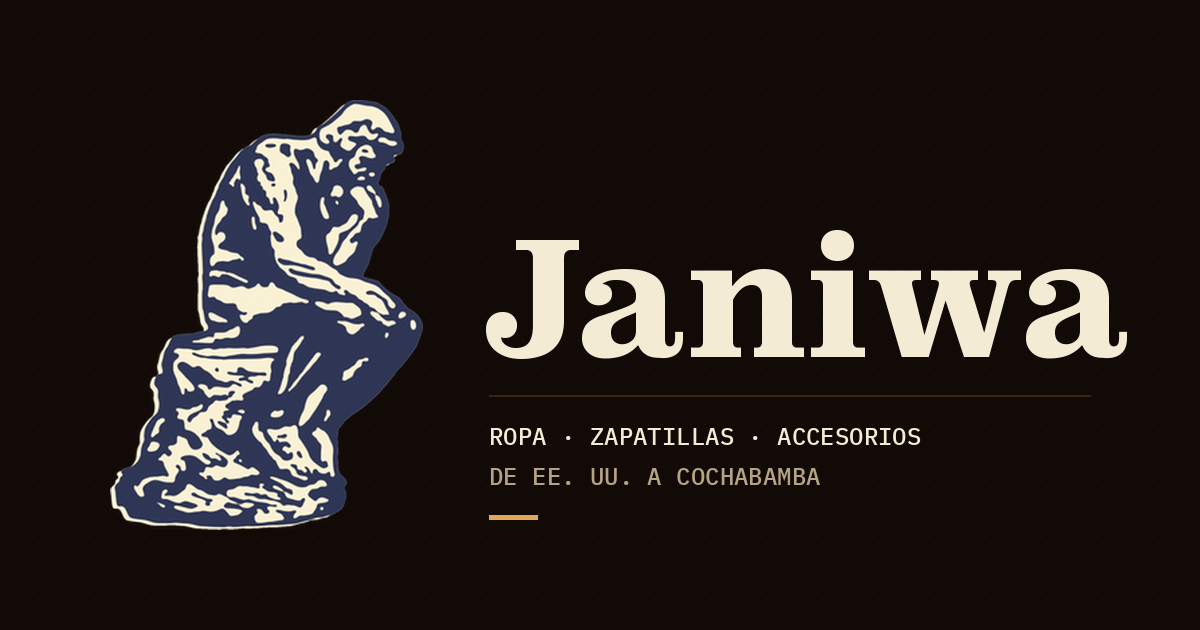
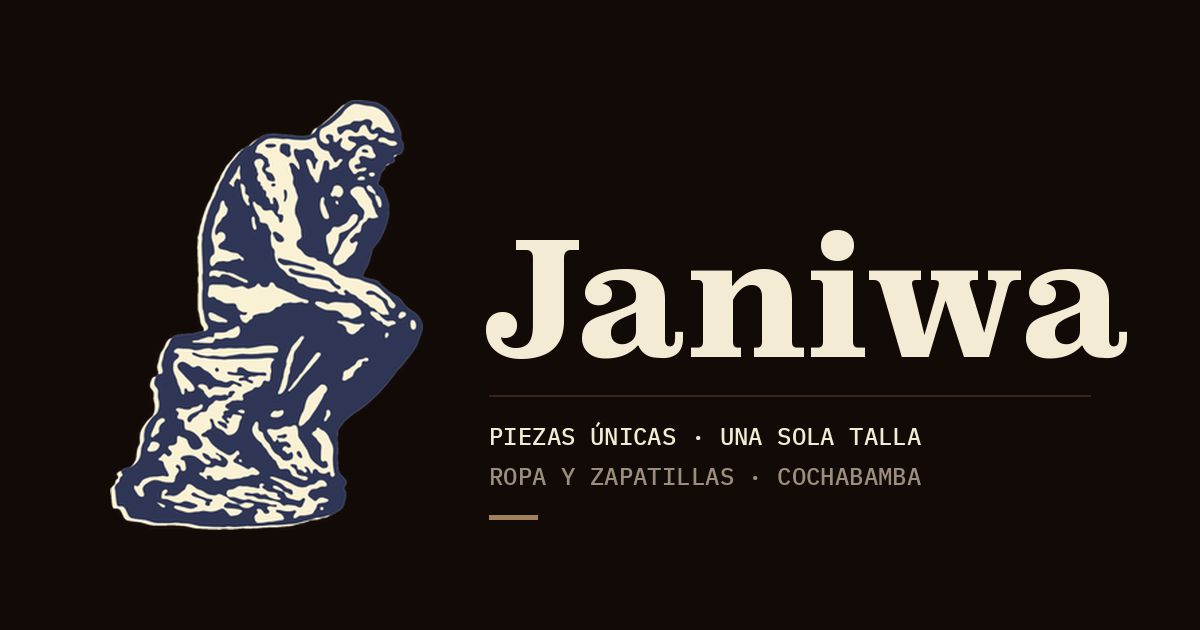
Piezas únicas, sin Encargos y cafés más oscuros
- Cada prenda es una sola en una sola talla: tarjeta con TALLA, ficha con
  PIEZA ÚNICA y 'Cuando se vende, no vuelve'; subir prenda elige una talla
- Se quita todo lo de Encargos USA ⇄ Bolivia (página, menú, pie, anuncios)
- Cafés claros más oscuros y menos naranjas (acento, texto suave, puntos)
- Textos para compartir y og.png con el nuevo enfoque

Claude-Session: https://claude.ai/code/session_01M5i1UX8nCTuhmQ9yh6jCW9

Changed region(s): [[0.4008, 0.6635, 0.7708, 0.7841], [0.4008, 0.8143, 0.4625, 0.8444]]

diff --git a/src/components/SubirPrenda.tsx b/src/components/SubirPrenda.tsx
@@ -4,7 +4,7 @@ import Link from "next/link";
 import { useState, useTransition } from "react";
 import { crearPrenda } from "@/app/actions";
 import { adivinarGenero, adivinarTipo, TIPOS_ROPA, type Genero } from "@/lib/catalogo";
-import { CATEGORIES, type Disponibilidad } from "@/lib/types";
+import { CATEGORIES } from "@/lib/types";
 import Sidebar from "./Sidebar";
 import SubidorFotos from "./SubidorFotos";
 
@@ -20,13 +20,11 @@ export default function SubirPrenda() {
   const [categoria, setCategoria] = useState("ROPA");
   const [genero, setGenero] = useState<Genero | null>(null); // null = aún sin tocar → sugerido
   const [tipo, setTipo] = useState<string | null>(null);
-  const [tallas, setTallas] = useState<string[]>([]);
+  const [talla, setTalla] = useState(""); // pieza única: una sola talla
   const [otraTalla, setOtraTalla] = useState("");
   const [precio, setPrecio] = useState("");
   const [minimo, setMinimo] = useState("");
   const [costo, setCosto] = useState("");
-  const [disp, setDisp] = useState<Disponibilidad>("stock");
-  const [llegada, setLlegada] = useState("");
   const [descripcion, setDescripcion] = useState("");
   const [publicar, setPublicar] = useState(true);
   const [resultado, setResultado] = useState<{ ok: true; id: number; publicado: boolean } | { ok: false; error: string } | null>(null);
@@ -36,13 +34,11 @@ export default function SubirPrenda() {
   const generoFinal = genero ?? adivinarGenero(`${nombre} ${color}`) ?? "unisex";
   const tipoFinal = tipo ?? (esRopa ? adivinarTipo(nombre) ?? "" : "");
   const sugeridas = esRopa ? TALLAS_ROPA : categoria === "ZAPATILLAS" ? TALLAS_ZAP : [];
-  const opcionesTalla = [...sugeridas, ...tallas.filter((t) => !sugeridas.includes(t))];
+  const opcionesTalla = talla && !sugeridas.includes(talla) ? [...sugeridas, talla] : sugeridas;
 
-  const alternarTalla = (t: string) =>
-    setTallas((ts) => (ts.includes(t) ? ts.filter((x) => x !== t) : [...ts, t]));
   const agregarTalla = () => {
-    const nuevas = otraTalla.split(/[,;]+/).map((t) => t.trim().toUpperCase()).filter(Boolean);
-    setTallas((ts) => Array.from(new Set([...ts, ...nuevas])));
+    const t = otraTalla.trim().toUpperCase();
+    if (t) setTalla(t);
     setOtraTalla("");
   };
 
@@ -52,11 +48,10 @@ export default function SubirPrenda() {
     setColor("");
     setGenero(null);
     setTipo(null);
-    setTallas([]);
+    setTalla("");
     setPrecio("");
     setMinimo("");
     setCosto("");
-    setLlegada("");
     setDescripcion("");
     setResultado(null);
     window.scrollTo({ top: 0 });
@@ -74,9 +69,9 @@ export default function SubirPrenda() {
         publicado: publicar,
         precio_venta_bs: num(precio),
         precio_minimo_bs: num(minimo),
-        tallas,
-        disponibilidad: disp,
-        llegada_estimada: disp === "encargo" ? llegada || null : null,
+        tallas: talla ? [talla] : [],
+        disponibilidad: "stock",
+        llegada_estimada: null,
         descripcion: descripcion || null,
         genero: generoFinal,
         subcategoria: esRopa ? tipoFinal || null : null,
@@ -154,7 +149,7 @@ export default function SubirPrenda() {
                   value={categoria}
                   onChange={(e) => {
                     setCategoria(e.target.value);
-                    setTallas([]);
+                    setTalla("");
                   }}
                 >
                   {CATEGORIES.map((c) => (
@@ -192,11 +187,11 @@ export default function SubirPrenda() {
             </div>
 
             <fieldset className="tallas">
-              <legend className="label">TALLAS QUE TIENES {tallas.length ? `· ${tallas.join(", ")}` : ""}</legend>
+              <legend className="label">TALLA · PIEZA ÚNICA {talla ? `· ${talla}` : ""}</legend>
               {opcionesTalla.length > 0 && (
                 <div className="tallas-lista">
                   {opcionesTalla.map((t) => (
-                    <button key={t} type="button" className="talla" aria-pressed={tallas.includes(t)} onClick={() => alternarTalla(t)}>
+                    <button key={t} type="button" className="talla" aria-pressed={talla === t} onClick={() => setTalla(talla === t ? "" : t)}>
                       {t}
                     </button>
                   ))}
@@ -207,7 +202,7 @@ export default function SubirPrenda() {
                   className="tag-input"
                   type="text"
                   value={otraTalla}
-                  placeholder={esRopa ? "Otra talla (ej. 32x30)" : "Talla (ej. 8.5, ÚNICA)"}
+                  placeholder={esRopa ? "Otra talla (ej. 32x30)" : "Talla (ej. 8.5, ESTÁNDAR)"}
                   aria-label="Agregar otra talla"
                   onChange={(e) => setOtraTalla(e.target.value)}
                   onKeyDown={(e) => {
@@ -219,7 +214,7 @@ export default function SubirPrenda() {
                   style={{ flex: 1, minWidth: 0 }}
                 />
                 <button type="button" className="btn btn-outline" onClick={agregarTalla} disabled={!otraTalla.trim()}>
-                  + AGREGAR
+                  USAR
                 </button>
               </div>
             </fieldset>
@@ -247,20 +242,8 @@ export default function SubirPrenda() {
                 <span>LO QUE TE COSTÓ (USD) · SOLO TÚ</span>
                 <input type="number" inputMode="decimal" min="0" step="0.01" value={costo} placeholder="Opcional" onChange={(e) => setCosto(e.target.value)} />
               </label>
-              <label className="field">
-                <span>DISPONIBILIDAD</span>
-                <select value={disp} onChange={(e) => setDisp(e.target.value as Disponibilidad)}>
-                  <option value="stock">EN STOCK (LO TENGO)</option>
-                  <option value="encargo">POR ENCARGO</option>
-                </select>
-              </label>
+              <div />
             </div>
-            {disp === "encargo" && (
-              <label className="field">
-                <span>LLEGADA ESTIMADA</span>
-                <input type="date" value={llegada} onChange={(e) => setLlegada(e.target.value)} />
-              </label>
-            )}
           </section>
 
           <div className="subir-final">

diff --git a/src/app/globals.css b/src/app/globals.css
@@ -3,10 +3,10 @@
   --panel: #1a0f09;
   --line: #2e1c12;
   --line-strong: #3a2418;
-  --dots: #553825;
+  --dots: #3d3129;
   --cream: #f3ebd3;
-  --muted: #b5a386;
-  --accent: #e3a65b;
+  --muted: #9c8e7c;
+  --accent: #a3805c;
   --serif: var(--font-serif), Georgia, serif;
   --mono: var(--font-mono), ui-monospace, monospace;
 }
@@ -601,9 +601,6 @@ a.nav-item { color: var(--muted); text-decoration: none; }
   display: flex; flex-direction: column; gap: 8px; margin: 22px 18px 0; padding: 14px 16px;
   border: 1px dashed var(--dots); color: var(--cream); text-decoration: none; line-height: 1.5;
 }
-.menu-extra:hover { border-color: var(--accent); }
-.menu-extra-top { display: flex; justify-content: space-between; align-items: center; gap: 8px; }
-.tag-pronto { padding: 2px 6px; font-size: 9px; letter-spacing: 0.14em; background: var(--accent); color: var(--bg); font-weight: 600; }
 .menu-wa {
   display: flex; align-items: center; justify-content: center; gap: 10px; margin: 16px 18px 28px; min-height: 50px;
   border: 1px solid var(--cream); color: var(--cream); text-decoration: none; font-size: 11px; letter-spacing: 0.1em;
@@ -638,20 +635,16 @@ a.nav-item { color: var(--muted); text-decoration: none; }
 .foot-links a { color: var(--cream); min-height: 32px; display: inline-flex; align-items: center; }
 .foot-legal { margin-top: 14px; font-size: 10px; letter-spacing: 0.14em; color: var(--muted); }
 
-/* Encargos y página de producto */
-.encargos { display: grid; grid-template-columns: repeat(2, minmax(0, 1fr)); gap: 14px; margin-top: 10px; }
-.encargo-card { border: 1px solid var(--line-strong); padding: 22px 20px; display: flex; flex-direction: column; gap: 10px; line-height: 1.6; font-size: 13px; }
-.encargo-card h2 { font-size: 24px; line-height: 1.1; }
+/* Página de producto */
 a.btn { color: var(--cream); text-decoration: none; display: inline-flex; align-items: center; justify-content: center; }
 a.btn-primary { color: var(--bg); }
-.encargos + .actions .btn { text-decoration: none; display: inline-flex; align-items: center; }
 .migas { padding: 18px 0 0; font-size: 11px; letter-spacing: 0.1em; }
 .migas a { color: var(--cream); min-height: 32px; display: inline-flex; align-items: center; }
 
 @media (max-width: 640px) {
   .shop { padding: 0 16px 28px; }
   .shop-grid { columns: 2; column-gap: 10px; }
-  .foot-how ol, .encargos { grid-template-columns: 1fr; }
+  .foot-how ol { grid-template-columns: 1fr; }
 }
 
 /* ───────── Radio en vivo ───────── */
@@ -766,3 +759,5 @@ a.btn-primary { color: var(--bg); }
   .subir-final .btn-primary { width: 100%; }
   .anuncio-fila img { width: 72px; }
 }
+
+.unica { margin-top: -8px; line-height: 1.5; }

diff --git a/src/components/Marco.tsx b/src/components/Marco.tsx
@@ -77,13 +77,12 @@ export default function Marco({
         <section className="foot-how" aria-labelledby="como-comprar">
           <h2 id="como-comprar">Cómo comprar</h2>
           <ol>
-            <li><span className="how-n">01</span><span><b>Elige</b> el producto y tu talla.</span></li>
+            <li><span className="how-n">01</span><span><b>Elige</b> tu prenda: cada una es única, en una sola talla.</span></li>
             <li><span className="how-n">02</span><span><b>Escríbenos</b>: el botón abre WhatsApp con tu pedido.</span></li>
             <li><span className="how-n">03</span><span><b>Coordinamos</b> el pago y la entrega contigo.</span></li>
           </ol>
         </section>
         <div className="foot-links">
-          <Link href="/encargos">ENCARGOS USA ⇄ BOLIVIA · PRONTO</Link>
           {numero && (
             <a href={enlaceWhatsAppGeneral(numero)} target="_blank" rel="noreferrer">
               WHATSAPP ↗
@@ -186,13 +185,10 @@ function Menu({
               ))}
             </ul>
 
-            <Link href="/encargos" onClick={cerrar} className="menu-extra">
-              <span className="menu-extra-top">
-                <span className="label">ENCARGOS USA ⇄ BOLIVIA</span>
-                <span className="tag-pronto">PRONTO</span>
-              </span>
-              <span className="small muted">Traer de EE. UU. lo que no está en la tienda, o enviar de Bolivia a EE. UU.</span>
-            </Link>
+            <div className="menu-extra">
+              <span className="label">PIEZAS ÚNICAS</span>
+              <span className="small muted">Cada prenda es una sola, en una sola talla. Cuando se vende, no vuelve.</span>
+            </div>
 
             {numero && (
               <a className="menu-wa" href={enlaceWhatsAppGeneral(numero)} target="_blank" rel="noreferrer">

diff --git a/src/components/Escaparate.tsx b/src/components/Escaparate.tsx
@@ -5,6 +5,7 @@ import { useCallback, useEffect, useState } from "react";
 import type { Anuncio, ProductoPublico } from "@/lib/types";
 import { filtrar, nombreCategoria, SECCIONES, seccionesDe, slugCategoria, type Vista } from "@/lib/catalogo";
 import { money } from "@/lib/calc";
+import { etiquetaTalla } from "@/lib/vitrina";
 import Banners from "./Banner";
 import Marco from "./Marco";
 import Dialog, { CloseButton } from "./Dialog";
@@ -148,9 +149,7 @@ export default function Escaparate({
                   // eslint-disable-next-line @next/next/no-img-element
                   <img className="shop-img-2" src={p.fotos[1]} alt="" loading="lazy" />
                 )}
-                <span className={`shop-badge ${p.disponibilidad === "stock" ? "is-stock" : ""}`}>
-                  {p.disponibilidad === "stock" ? "EN STOCK" : "POR ENCARGO"}
-                </span>
+                <span className="shop-badge is-stock">{etiquetaTalla(p)}</span>
               </span>
               <span className="shop-info">
                 <span className="shop-name">{p.name}</span>

diff --git a/src/components/FichaPublica.tsx b/src/components/FichaPublica.tsx
@@ -3,7 +3,7 @@
 import { useEffect, useState } from "react";
 import { registrarInteres } from "@/app/public-actions";
 import { codigo, money } from "@/lib/calc";
-import { enlaceWhatsApp, textoDisponibilidad } from "@/lib/vitrina";
+import { enlaceWhatsApp, textoPieza } from "@/lib/vitrina";
 import type { ProductoPublico } from "@/lib/types";
 import Galeria from "./Galeria";
 
@@ -55,11 +55,13 @@ export default function FichaPublica({
         </div>
 
         <div className="total" style={{ borderTop: 0, paddingTop: 0 }}>
-          <span className="label">{textoDisponibilidad(p)}</span>
+          <span className="label">{textoPieza(p)}</span>
           <span className="total-num">Bs {money(p.precio_venta_bs)}</span>
         </div>
 
-        {p.tallas.length > 0 && (
+        <p className="small muted unica">Solo hay una. Cuando se vende, no vuelve.</p>
+
+        {p.tallas.length > 1 && (
           <fieldset className="tallas">
             <legend className="label">TALLA {talla ? `· ${talla}` : ""}</legend>
             <div className="tallas-lista">

diff --git a/src/app/producto/[id]/page.tsx b/src/app/producto/[id]/page.tsx
@@ -17,13 +17,13 @@ export async function generateMetadata({ params }: Props): Promise<Metadata> {
   const titulo = [p.name, p.color].filter(Boolean).join(" · ");
   return {
     title: `${titulo} · Janiwa`,
-    description: `Bs ${money(p.precio_venta_bs)} · ${p.disponibilidad === "stock" ? "En stock" : "Por encargo"} · Janiwa, Cochabamba`,
+    description: `Bs ${money(p.precio_venta_bs)} · Pieza única${p.tallas.length ? ` · Talla ${p.tallas.join(" / ")}` : ""} · Janiwa, Cochabamba`,
     openGraph: {
       siteName: "Janiwa",
       type: "website",
       locale: "es_BO",
       title: titulo,
-      description: `Bs ${money(p.precio_venta_bs)}`,
+      description: `Bs ${money(p.precio_venta_bs)} · Pieza única${p.tallas.length ? ` · Talla ${p.tallas.join(" / ")}` : ""}`,
       images: p.image_url ? [p.image_url] : ["/og.png"],
     },
   };

diff --git a/src/lib/vitrina.ts b/src/lib/vitrina.ts
@@ -9,10 +9,14 @@ export function fechaCorta(iso: string | null): string | null {
   return m ? `${Number(m[3])} ${MESES[Number(m[2]) - 1]}` : null;
 }
 
-export function textoDisponibilidad(p: ProductoPublico): string {
-  if (p.disponibilidad === "stock") return "EN STOCK · ENTREGA INMEDIATA";
-  const f = fechaCorta(p.llegada_estimada);
-  return f ? `POR ENCARGO · LLEGA APROX. ${f}` : "POR ENCARGO";
+/** Cada prenda es una sola: "PIEZA ÚNICA · TALLA M" */
+export function textoPieza(p: ProductoPublico): string {
+  return p.tallas.length ? `PIEZA ÚNICA · TALLA ${p.tallas.join(" / ")}` : "PIEZA ÚNICA";
+}
+
+/** Etiqueta corta para la tarjeta: "TALLA M" */
+export function etiquetaTalla(p: ProductoPublico): string {
+  return p.tallas.length ? `TALLA ${p.tallas.join(" / ")}` : "PIEZA ÚNICA";
 }
 
 /** Link de WhatsApp con el mensaje ya escrito */

diff --git a/src/app/page.tsx b/src/app/page.tsx
@@ -5,7 +5,7 @@ import Escaparate from "@/components/Escaparate";
 export const revalidate = 60;
 export const metadata: Metadata = {
   title: "Janiwa · Lo nuevo",
-  description: "Ropa, zapatillas y accesorios de EE. UU. por encargo en Cochabamba. Elige y coordina por WhatsApp.",
+  description: "Ropa, zapatillas y accesorios originales en Cochabamba. Piezas únicas: una sola prenda por talla. Coordina por WhatsApp.",
 };
 
 export default async function Inicio() {

diff --git a/src/app/manifest.ts b/src/app/manifest.ts
@@ -5,7 +5,7 @@ export default function manifest(): MetadataRoute.Manifest {
   return {
     name: "Janiwa",
     short_name: "Janiwa",
-    description: "Ropa, zapatillas y accesorios de EE. UU. en Cochabamba.",
+    description: "Piezas únicas de ropa, zapatillas y accesorios en Cochabamba.",
     start_url: "/",
     display: "standalone",
     background_color: "#110a06",

diff --git a/src/app/layout.tsx b/src/app/layout.tsx
@@ -38,7 +38,7 @@ function dominio() {
   }
 }
 
-const DESCRIPCION = "Ropa, zapatillas y accesorios de EE. UU. en Cochabamba. Elige y coordina por WhatsApp.";
+const DESCRIPCION = "Ropa, zapatillas y accesorios originales en Cochabamba. Piezas únicas: una sola prenda por talla. Coordina por WhatsApp.";
 
 export const metadata: Metadata = {
   metadataBase: dominio(),

diff --git a/src/components/Anuncios.tsx b/src/components/Anuncios.tsx
@@ -16,7 +16,6 @@ const DESTINOS = [
   ["/todo", "VER TODO"],
   ["/c/zapatillas", "ZAPATILLAS"],
   ["/c/accesorios", "ACCESORIOS"],
-  ["/encargos", "ENCARGOS"],
   ["otro", "OTRO LINK…"],
 ] as const;
 
